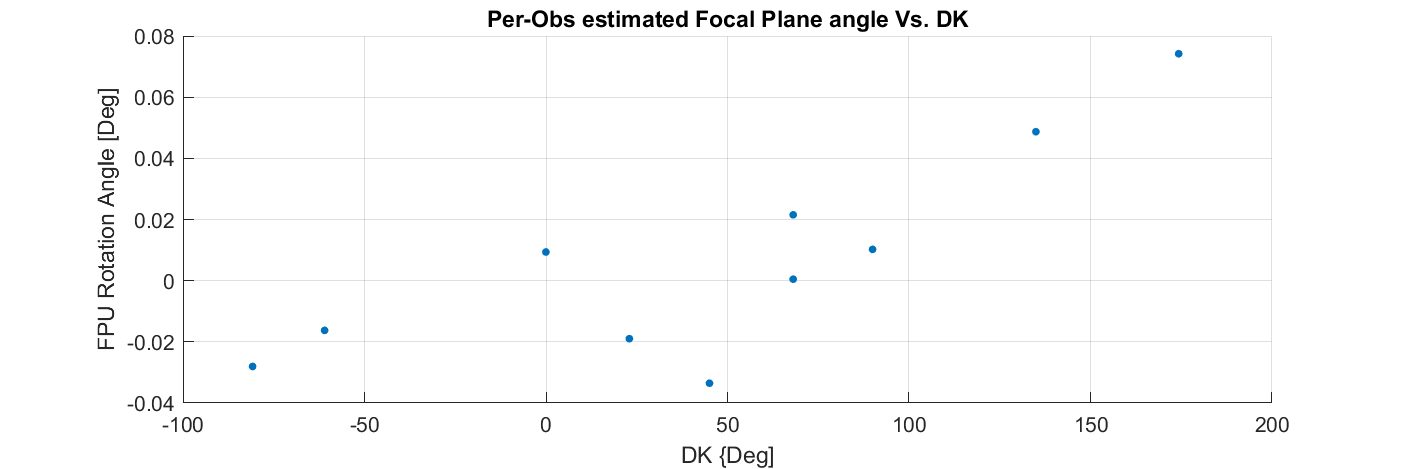
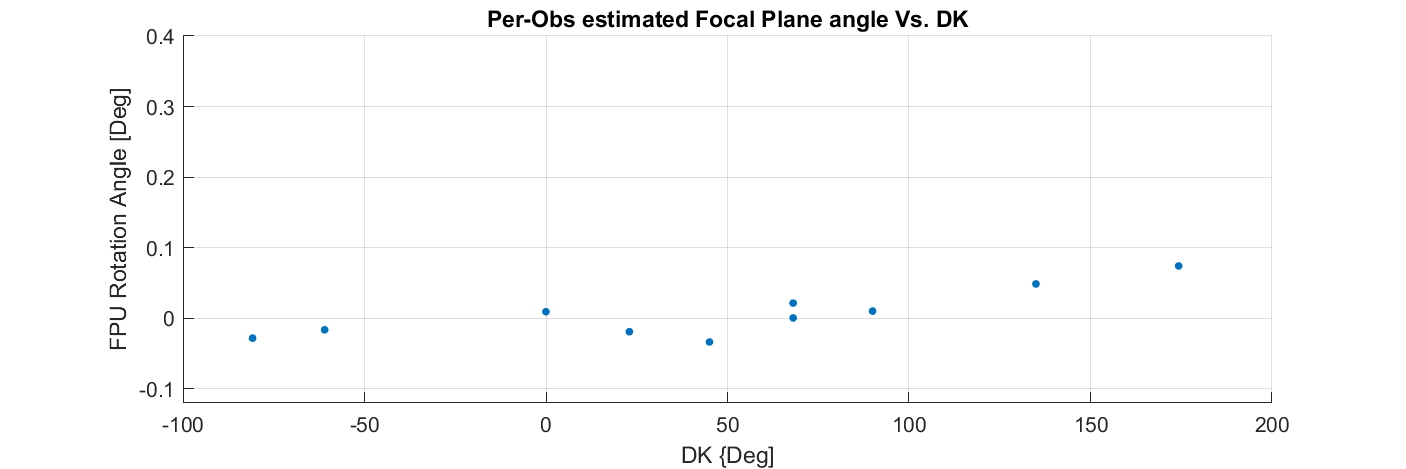
update to fpu vs dk plot

diff --git a/2022mmdd_rps_pointing/scripts/rps_pointing_plots_Aug2022.m b/2022mmdd_rps_pointing/scripts/rps_pointing_plots_Aug2022.m
@@ -217,7 +217,7 @@ clf; hold on;
 scatter(-fdval,fpuparms(:,1),14,'filled');%times-floor(times),'filled')
 grid on
 %xlim([-100 200])
-%ylim([-0.12 -0.04])
+ylim([-0.12 0.4])
 %C = colorbar();
 %C.Label.String = ''
 xlabel('DK {Deg]')
@@ -266,7 +266,7 @@ for schedind = 1:length(unqsch)
             mirrparms(end+1,:) = [mirror.tilt,mirror.roll];
             nchans(end+1) = length(find(ind));
             times(end+1) = nanmean(fd.t(ind));
-            fdval(end+1) = nanmean(fd.dk_cen(ind));
+            fdval(end+1) = -nanmean(fd.dk_cen(ind));
             %times(end+1) = sch{unqsch(schedind)}.scans(sch{unqsch(schedind)}.index(rowind,1)).t1;
             %fdval(end+1) = sch{unqsch(schedind)}.el_ofs(rowind,1);
 
@@ -278,10 +278,18 @@ end
 fig = figure(1);
 fig.Position(3:4) = [900 300];
 clf; hold on;
-scatter(times-0*floor(times),mirrparms(:,2),14,fdval,'filled')
+%scatter((times-1*floor(times)),mirrparms(:,2),14,fdval,'filled')
+scatter(mirrparms(:,1),mirrparms(:,2),18,(times-1*floor(times))*24,'filled')
+%scatter3((times-0*floor(times))*24,mirrparms(:,1),mirrparms(:,2),14,fdval,'filled')
 grid on
 %xlim([-100 200])
 %ylim([-0.12 -0.04])
+%xlabel('Time-of-day [hrs]')
+xlabel('tilt')
+ylabel('roll')
+colormap('parula')
+c = colorbar();
+c.Label.String = 'TOD';
 
 %% Look at the diff between CMB-derived phi and our phi
 
